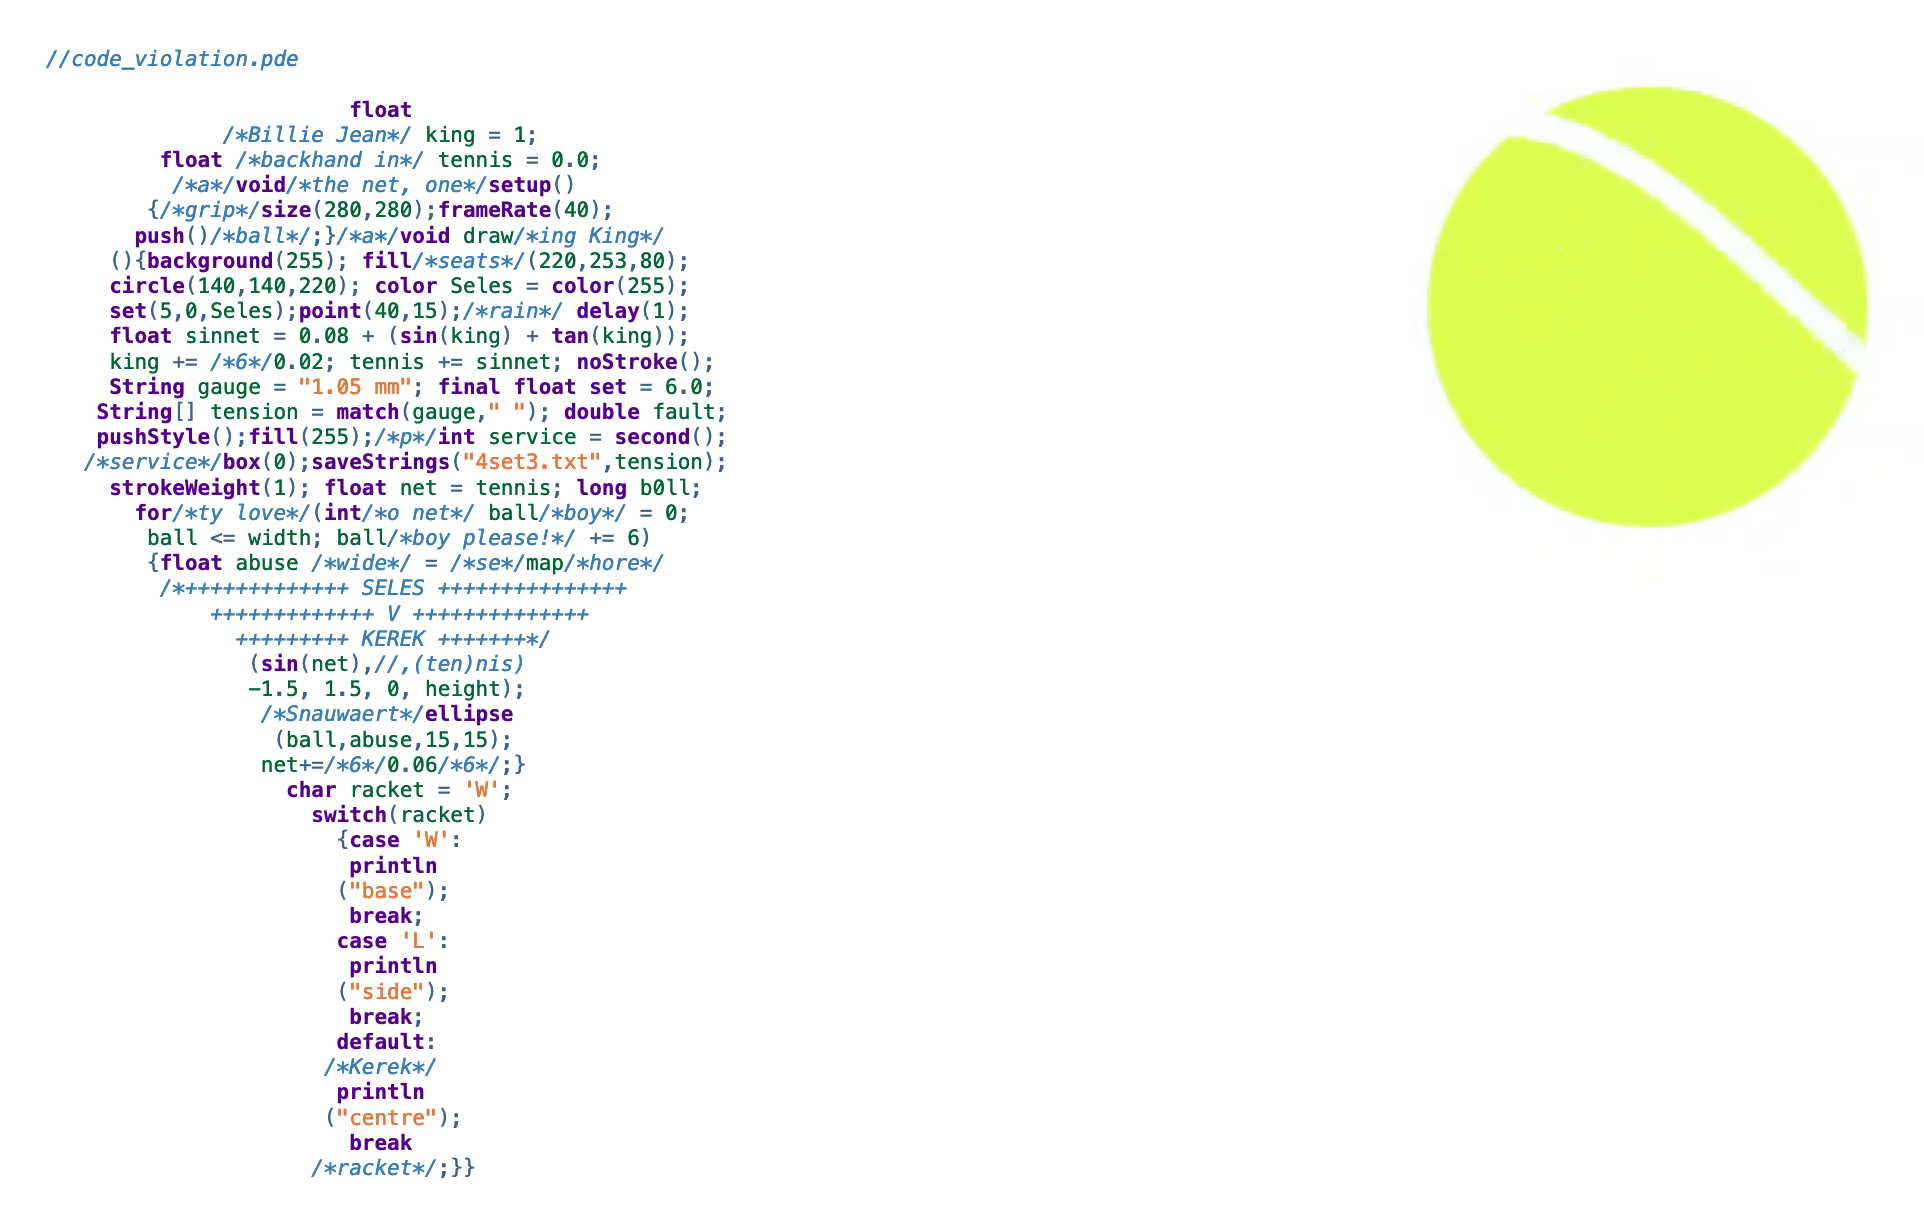
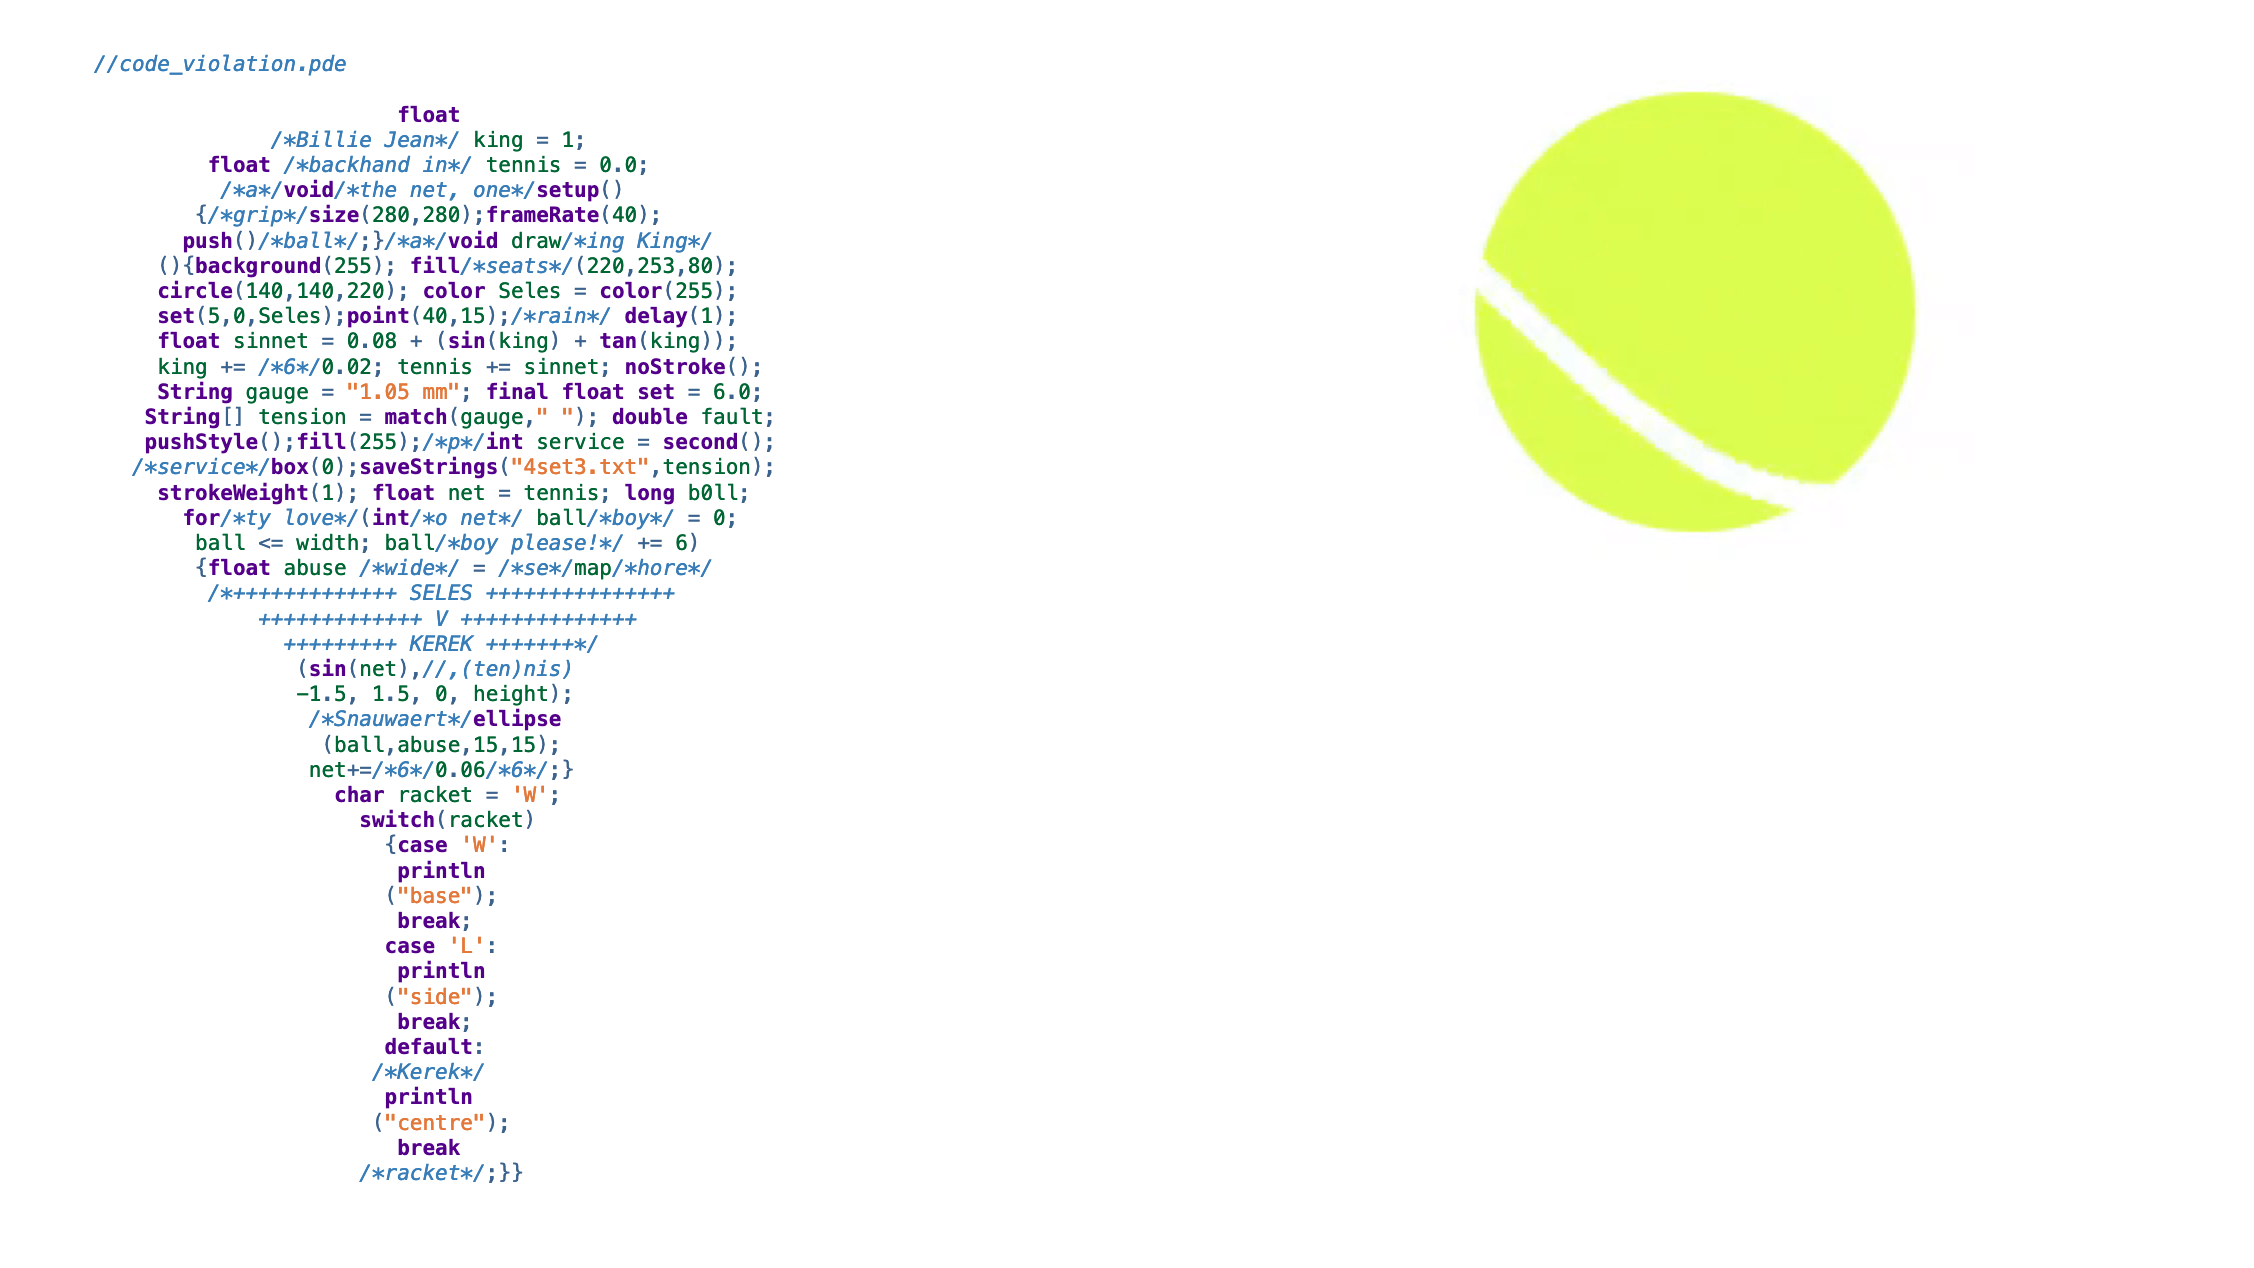
Added rough code poetry references, replaced code-poetry.com images with regular size versions

Changed region(s): [[0.0312, 0.062, 0.3742, 0.9608], [0.6549, 0.062, 0.9979, 0.4339], [0.0312, 0.031, 0.1559, 0.062]]

diff --git a/code-poetry.html b/code-poetry.html
@@ -81,8 +81,31 @@
         <img src="images/code-poetry/code-violation.png" alt="code_violation.pde from code-poetry.com">
       </div>
       <p>Intro to the project, with prominent link to code-poetry.com</p>
+      
+      <h2>Content from our publishers</h2>
+
+Youtube launch video: https://www.youtube.com/watch?v=1QWaZ665Wh0 
+Interview (Broken Sleep Books): https://www.brokensleepbooks.com/post/interview-with-daniel-holden-and-chris-kerr 
+Sidekick Barotrauma spotlight: https://sidekickbooks.com/booklab/2018/12/spotlight-barotrauma-chris-kerr-daniel-holden.html/ 
+
+      
+      <h2>Film poem</h2> 
+
+Barotrauma film poem: https://www.tentacularmag.com/issue-5b/chris-kerr-daniel-holden 
+
+<h2>Commissioned code poems</h2>
+
+https://www.welcometothejungle.com/en/articles/btc-poem-code-submarine 
+https://www.welcometothejungle.com/en/articles/btc-poem-code-alphanumeric 
+https://www.welcometothejungle.com/en/collections/behind-the-code/offbeat/articles/btc-poem-code-avalanche-stars 
+https://www.welcometothejungle.com/en/collections/behind-the-code/offbeat/articles/btc-poem-code-firefighting 
+      
       <h2>Strauhof Gallery Exhibition November 2024 to January 2025</h2>
       <p>Exhibition photos</p>
+      <p>Art exhibition: https://strauhof.ch/ausstellungen/maschinenpoesie/</p>
+      Reviews of Strauhof exhibition that obliquely mention code poetry: 
+https://zuerich24.ch/articles/275312-vom-schreiben-der-maschine 
+https://zuercher-museen.ch/museen/strauhof/maschinenpoesie 
       <p>Credit photographer</p>
       <div class="gallery">
         <img src="images/code-poetry/strauhof-1.jpg" alt="Strauhof gallery exhibition photo 1">
@@ -93,9 +116,72 @@
         <img src="images/code-poetry/strauhof-water-closeup-1.jpg" alt="Strauhof gallery exhibition photo 6">
 
       </div>
+
+      <h2>Lectures on ./code --poetry by the authors</h2>
+
+     <p> Hamburg: https://lecture2go.uni-hamburg.de/l2go/-/get/v/62271 </p>
+<p>Oslo: https://www.oslopoesi.no/deltakere-oslo-flermediale-2024/chris-kerr-uk </p>
+<p>Trondheim: https://www.ntnu.no/kalender/detaljer/-/event/902e7ad4-9c7a-3516-8791-92ea6202efa4 </p>
+
       <h2>References to ./code --poetry</h2>
+      <!-- Title, Author, Publication, Date-->
+      <p>Intro to references</p>
       <h3>Academic articles</h3>
+
+      “Unter der Oberfläche?
+ Programmierte Schriftlichkeit in digitaler Lyrik” by Wiebke Vorrath in Schriftlichkeit: Aktivität, Agentialität und Aktanten der Schrift (transcript Verlag, 2022) pp. 62-63.
+https://www.degruyter.com/document/doi/10.1515/9783839460924-003/pdf 
+Alternative link: https://uplopen.com/books/3821/files/c545aa5d-4612-49c4-b981-e1e158612bc9.pdf 
+Echo and Narcissus article by Drymonitis: https://icmc2022.wordpress.com/wp-content/uploads/2022/09/icmc2022-proceedings.pdf 
+Ludovica Polo academic article: https://doi.org/10.57576/ocula2024-9
+Drymonitis’ thesis: https://www.open-access.bcu.ac.uk/14314/1/Alexandros%20Drymonitis%20PhD%20Thesis%20published_Final%20version_Submitted%20Dec%202021_Final%20Award%20Jan%202023.pdf 
+Mentioned in Live Coding (Cambridge University Press): https://www.cambridge.org/core/journals/organised-sound/article/live-coding-poetry-the-narrative-of-code-in-a-hybrid-musicalpoetic-context/AF7EAF399DC50B2F7786391D227ACD9D 
+2023 academic article: https://research.vu.nl/ws/portalfiles/portal/337784644/The_Art_of_Creating_Code-Based_Artworks.pdf 
+Wiebke’s academic article: https://www.degruyter.com/document/doi/10.1515/9783839460924-003/html 
+Brasilia “Arte Computacional: O que reter, como reter? O que guardar, como guardar?”: http://icts.unb.br/jspui/bitstream/10482/44893/1/2022_Te%C3%B3filoAugustodaSilva.pdf 
+PhD thesis
+
+
+
+
+<h3>University syllabuses</h3>
+https://www.dipae.ac.cy/archeia/pistopoiimena_programmata/comments_on_eec_report/07.14.327.064_comments_on_eec_report.pdf - Cyprus uni 
+
+      <h3>Online articles</h3>
+      “What is Code Poetry?” by Daniel Temkin in Hyperallergic, 21 August 2023 https://hyperallergic.com/835123/what-is-code-poetry-daniel-holden-chris-kerr/
+Code poetry: Poems written in programming languages by Nađa Božović, 8 January 2018 https://www.popwebdesign.net/popart_blog/en/2018/01/code-poetry-poems-written-in-programming-languages/
+Same content in German? 
+“Code-Poesie: Gedichte die in Programmiersprachen geschrieben sind” by Kristina Dosen, 4 June 2018 https://www.popwebdesign.de/popart_blog/de/2018/06/code-poesie-gedichte-die-in-programmiersprachen-geschrieben-sind/
+Mentioned in “Practising Ada’s ‘Poetical Science’” by Kari Kraus, 18 April 2017 - Huffington Post  https://www.huffpost.com/entry/practicing-adas-poetical-science_b_58f4e31fe4b048372700da1f
+“Code poetry challenges the meaning of creativity and visual arts” by Madison Moore - Software Development Times, February 16 2017
+The aesthetics of source code: https://source.enframed.net/ideals/practice-programmers/ 
+Deus ex machina (French): https://www.revuedeparis.fr/deus-ex-machina-de-l-anthropocentrisme-au-transhumanisme/ 
+Ekrits: https://ekrits.jp/2020/01/3201/ 
+
       <h3>Interviews</h3>
+      <h3>Print book</h3>
+      https://www.amazon.co.uk/Python-Grammar-Learn-speak/dp/B0B1CG9J41 
+
+      Print book (self-published) 
+References ./code –-poetry on p. 25
+
+      <h3>Print magazine</h3>
+      P code magazine (Japan): https://p-code-magazine.github.io/downloads/p-code-magazine-1.pdf
+      Including photos of turing machine from code-poetry.com: https://archive.transbooks.center/p-code-magazine-001 
+      
+<h3>Shoutouts and blog posts</h3>
+Included in Backslash Lit’s Inspo https://backslashlit.com/inspo/
+Mentioned on Pixel Envy by Nick Heer https://pxlnv.com/linklog/code-poetry/
+Mentioned by Krzysztof Siejkowski, author of codepoems.xyz https://codepoems.xyz/about/
+The Good Men Project: https://goodmenproject.com/technology/e-poetry-and-its-cyber-branches/ 
+Web curios: https://webcurios.co.uk/webcurios-28-10-22/ 
+Poetry takes over tech - https://maried.substack.com/p/poetry-takes-over-tech
+
+<h3>Conference presentations by third-parties</h3>
+
+Keynote: On the Aesthetics of Code - Sy Brand - CPPP 2021 https://www.youtube.com/watch?v=CkGqINHZit0
+“Is code poetry the new avant garde” - talk by Laura Caccia, TedX London https://www.youtube.com/watch?v=OPyS5dVOpp4
+ 
     </main>
     <footer>
       <p>&copy; <span id="year"></span> Christopher Kerr</p>
